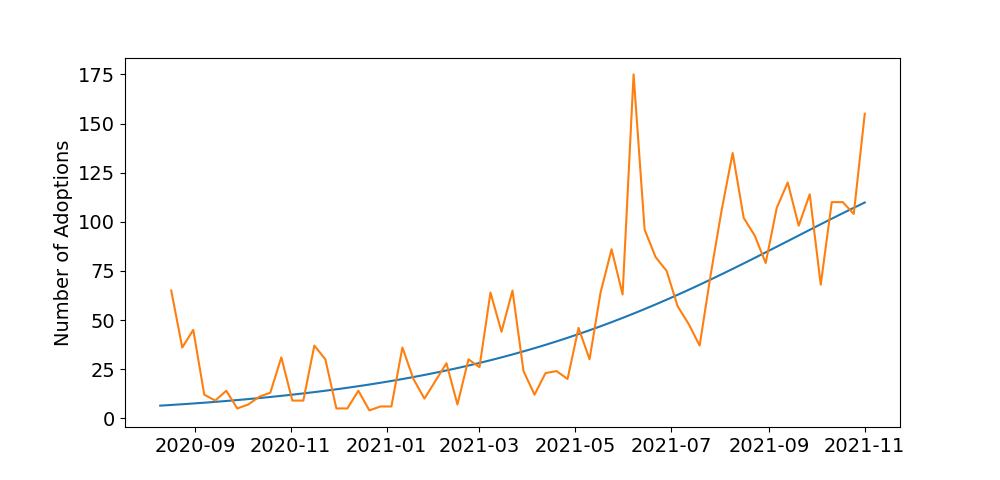
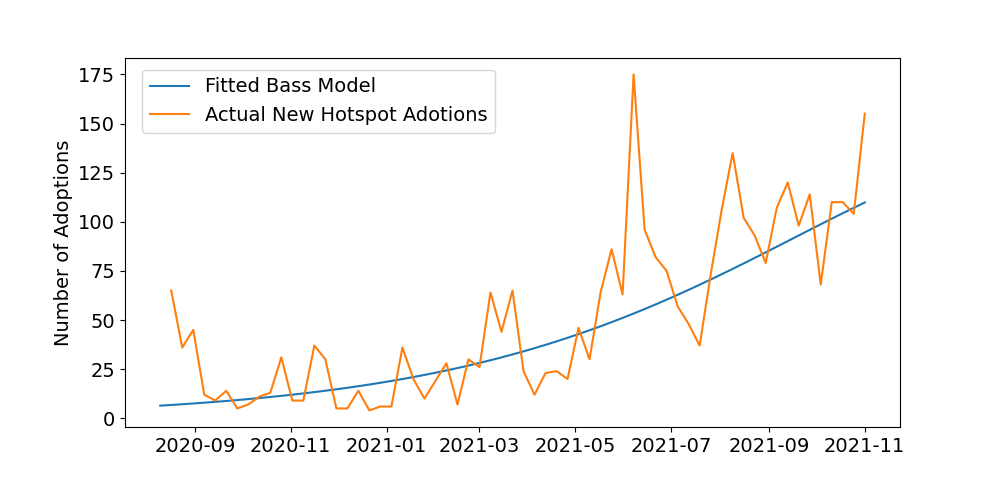
Finished the final .tex document and adjusting some plots.

Changed region(s): [[0.155, 0.1562, 0.496, 0.2812]]

diff --git a/model_and_results.tex b/model_and_results.tex
@@ -27,7 +27,7 @@
 \author{Ciupitu, Octavian; Talantceva, Marina}
 
 %------------------------------------------------
-% document starts here
+% Document Starts Here
 %------------------------------------------------
 \begin{document}
 
@@ -35,19 +35,22 @@
 \maketitle
 
 \begin{center}
-    Predicting the adoption curve of Helium Hotspotsusing the Bass Model (Bass, 1969).
+    Predicting the adoption curve of Helium Hotspotsusing the Bass Model \citep{bass1969new}.
 \end{center}
   
+%------------------------------------------------
+% CHAPTER 1
+%------------------------------------------------
 
 \section{The Bass Model}
 
 The \emph{Bass Model} was originated by Frank Bass in 1969 and is used to predict new product diffusion patterns. In his first paper
-in 1969, Bass built on the findings of Rodgers (1963) on the \emph{Diffusion of Innovations} and introduced what he called a
-\emph{new product growth model for consumer durables}. Later, this model proved to be applicable to more products than just consumer
-durables, and eventually became worldwide known as the \emph{Bass Model}. The model is used to explain the interaction between current
-and potential adopters of a new product. It states that there are two types of adopters - the innovators and the imitators. The speed
-and timing of adoption depends on their degree of innovation and the degree of imitation among adopters. Accoding to Bass, these are the
-two main kinds of forced determining the diffusion pattern.
+in 1969, Bass built on the findings of \cite{rogers2014diffusion} on the \emph{Diffusion of Innovations}, which were first pubished in 1963,
+and introduced what he called a \emph{new product growth model for consumer durables}. Later, this model proved to be applicable to more
+products than just consumer durables, and eventually became worldwide known as the \emph{Bass Model}. The model is used to explain the
+interaction between current and potential adopters of a new product. It states that there are two types of adopters - \emph{innovators} and
+\emph{imitators}. This means, the speed and timing of adoption depends on the degree of innovation and the degree of imitation among adopters.
+Accoding to Bass, these are the two main kinds of forces determining the diffusion pattern.
 
 \medskip
 
@@ -60,16 +63,26 @@ two main kinds of forced determining the diffusion pattern.
     $m$ does not determine the shape of the adoption curve. 
 \end{enumerate}
 
-\noindent The two parameters $p$, and $q$ specify how fast or slow the adoption of a new product is expected to proceed. To sum up, the adoption of a
-new product can proceed either by small scale or a large scale (specified by $m$) or at a fast or slow pace (specified by $p$ and $q$). 
-Figure 1 shows different estimated curves with various levels of innovation ($p$) and imitation ($q$). Characteristic of these diffusion curves is
-their S-shape, which illustrates that the adoption rate of a new product is particularly low at the beginning, when no contagion effects can yet exist,
-and at the end, when market saturation has been reached. 
-
 \begin{figure}[hptb]
     \centering{}\includegraphics[scale=0.45]{plots/bass_model_example.png}\\
     \caption{Based on Number Analytics (2021).}
 \end{figure}
+
+\noindent At the beginning of a product diffusion process, the \emph{coefficient of innovation} is particularly important, as it represents the set of
+people who are the first to adopt the new product regardless of the actions of others - in other words, they are \emph{innovators}. Later in the diffusion
+process, the \emph{coefficient of imitation} becomes more and more important. It stands for the set of people who adopt due to the fact that they see
+products on other people. The \emph{coefficient of imitation} represents the contagion effect in a population and describes the influence of the \emph{imitators}.
+
+\medskip
+
+\noindent The two parameters $p$, and $q$ specify how fast or slow the adoption of a new product is expected to proceed. To sum up, the adoption of a
+new product can proceed either by small scale or a large scale (specified by $m$) or at a fast or slow pace (specified by $p$ and $q$). 
+Figure 1 shows different estimated curves with various levels of innovation ($p$) and imitation ($q$). The level of $p$ determines the adoption rate at
+the beginning of the diffusion process, whereas the level of $q$ determines the adoption rate at the time where many adoptions have already taken place.
+Characteristic of these diffusion curves is their S-shape, which illustrates that the adoption rate of a new product is particularly low at the beginning,
+when no contagion effects can yet exist, and at the end, when market saturation has been reached. 
+
+\medskip
 
 \noindent We derive the estimation function from the Bass equation below:
 
@@ -114,12 +127,18 @@ In order to estimate those parameters, an estimation funciton needs to be derive
 then used to calculate the coefficient of innovation $p$, the coefficient of imitation $q$ and the market size $m$ by applying the formulas from \emph{Equation 4}.
 
 \clearpage
+
+%------------------------------------------------
+% CHAPTER 2
+%------------------------------------------------
+
 \section{Data Analysis and Results}
 
 As a first step, we collect all hostpot adoptions from the Helium blockchain for New York City, US. We consider New York as an interesting study
 environment since it is a comparatively fast adopting city. The installation date of a hotspot is stored in the blockchain by a daily frequency. However, to
 avoid many zero entries in our dataset, especially at the beginning of the hotspot diffusion process, we decided to transform our dataset to a weekly frequency.
-This allows us to observe the evolution of adoptions from week to week, as can be seen in Figure 2 (weekly adoptions) and Figure 3 (weekly cumulative adoptions).
+This allows us to observe the evolution of adoptions from week to week, as can be seen in the left chart of Figure 2 (weekly adoptions) as well as on the right
+one (weekly cumulative adoptions).
 
 \begin{figure}[!hptb]
     \begin{subfigure}[h]{0.52\linewidth}
@@ -141,15 +160,15 @@ the end of 2022, more precisely until December 26, 2022.
 \bigskip
 
 \noindent The estimates of our analysis give us a coefficient of innovation $p$ of $0.00066$, a coefficient of imitation $q$ of $0.055$, and a market size $m$ of $9754$. If we
-plot our fitted curve against actual weekly (new) hotspot adoptions as in Figure 3, we can see that the curve describes reality well.
+plot our fitted curve against actual weekly (new) hotspot adoptions as in Figure 3, we can see that the fitted curve describes reality well.
 
 \begin{figure}[!hptb]
     \centering{}\includegraphics[scale=0.6]{plots/bass_model_adoptions_vs_actual_adoptions.png}\\
-    \caption{Fitted Bass Model (blue) vs. Actual Hotspots Adoptions (orange).}
+    \caption{Fitted Bass Model (blue) vs. Actual Hotspots Adoptions from the Training Dataset (orange).}
 \end{figure}
 
 \noindent Figure 4 again shows, similar to Figure 3, our fitted curve, but this time against the weekly cumulative hotspot adoptions. Additionally, we inclueded the prediction
-of our Bass Model until the end of 2022. It can be seen that, according to our prediction, the saturation will be reached at the beginning of 2023 at around $9700$ adoptions,
+of our Bass Model until the end of 2022. It can be seen that, according to our prediction, the saturation will be reached at the beginning of 2023 at around $9,700$ adoptions,
 just as our estimated parameter $m$ suggested.
 
 \bigskip
@@ -159,7 +178,7 @@ just as our estimated parameter $m$ suggested.
 
 \begin{figure}[!hptb]
     \centering{}\includegraphics[scale=0.6]{plots/cumulative_bass_model_adoptions_vs_actual_cumulative_adoptions.png}\\
-    \caption{Bass Model Estimation until the End of 2022 (blue) vs. Acutal Adoption until November 2021 (orange).}
+    \caption{Bass Model Estimation until the End of 2022 (blue) vs. Actual Adoption until November 2021 (orange).}
 \end{figure}
 
 \noindent In a final step, we compare the Bass Model prediction with the real hotspots adoptions until December 2022. The result can be seen in Figure 5. It can be seen, that our
@@ -167,11 +186,50 @@ prediction is clearly too optimisitc and that the actual market saturation is re
 
 \begin{figure}[!hptb]
     \centering{}\includegraphics[scale=0.6]{plots/predicted_cumulative_weekly_hotspot_adoptions.png}\\
-    \caption{Bass Model Estimation until the End of 2022 (blue) vs. Acutal Adoption until the End of 2022 (orange + green).}
+    \caption{Bass Model Estimation until the End of 2022 (blue) vs. Actual Adoption until the End of 2022 (orange + green).}
 \end{figure}
 
-%%%%%%%%%%%%%%%%%% REFERENCES %%%%%%%%%%%%%%%%%%%%%%%%
+%------------------------------------------------
+% CHAPTER 3
+%------------------------------------------------
 
+\section{Discussion and Limitations}
+
+Our analysis clearly shows that our prediction is too optimistic when compared to the test data set. The market size estimated by the Bass Model is $m = 9,754$, whereas
+from the real data we can see that the hotspot adoptions tend to converge towards a market size of $6000$. However, a closer look at the model quickly reveals where
+this discrepancy comes from. The Bass model, which is now over 50 years old, is one of the first models to describe the diffusion process of a new product, and is
+therefore still very simply designed. Namely, it describes the dependent variable only on the basis of its own lags i.e. the so-called "installed base". For a more
+complex technology, like in our case a Helium hotspot, estimating future adoptions solely based on past adoptions does not seem to be sufficient for a good fit.
+The reason for this is that a potential consumer's adoption decision depends on additional important market variables. Probably the most important market variable
+is the performance of the cryptocurrency market, or to be more precise, the so-called Helium Token (\$HNT), which rewards consumers for setting up and operating a
+hotspot. If the price of \$HNT, which can be traded for traditional currencies such as dollars or euros on crypto exchanges, is high, then consumers'
+incentives to adopt also increase. 
+
+\bigskip
+
+\noindent However, if we look at the past performance of the cryptocurrency market, we see that for the period of our training data set (August 10, 2020 to November 7, 2021) all
+cryptocurrencies massively increase in value. Not only did the price of the Helium Token reach its peak at around \$52 in November 2021, but also the price of other major
+cryptocurrencies like Bitcoin or Ethereum. This means, that the estimation of our variables $p$, $q$ and $m$ is based on a timeframe when the whole market was going up. However,
+shortly after the end of our training data set the cryptocurrency market crashed in 2022, causing a lot of currencies to loose up to 80\% of their market capitalization. This in
+turn caused less people to adopt Helium hotspots since the incentives for doing so went down. This fact is also well illustrated by Figure 6. Here it can be clearly seen that the
+rate of new adoptions drops rapidly as soon as the HNT price collapses (around February 2022). The collapse of the HNT price is an essential piece of information that our model
+does not take into account.
+
+\begin{figure}[!hptb]
+    \centering{}\includegraphics[scale=0.6]{plots/hnt_comparison.png}\\
+    \caption{The Decline in Hotspot Adoptions after HNT Price Collapse.}
+\end{figure}
+
+\noindent To account for additional variables, Frank Bass years later presented an extension of his original model that captures the influence of such external variables with the
+publication of the \emph{Generalized Bass Model} \citep{bass1994bass}. For future research, we therefore propose to use the \emph{Generalized Bass Model} both to gain better
+predictions about the diffusion process and to gain accurate insights into which external variables have an impact on the adoption rate, i.e., on the slope of the adoption curve.
+
+
+%%%%%%%%%%%%%%%%%% REFERENCES %%%%%%%%%%%%%%%%%%%%%%%%
+\setcounter{secnumdepth}{0}
+\addcontentsline{toc}{section}{References}
+\bibliographystyle{chicago}
+\bibliography{Biblio.bib} 
 %%%%%%%%%%%%%%%%%%%%%%%%%%%%%%%%%%%%%%%%%%%%%%%%%%%%%%%%
  
 \end{document}

diff --git a/bass_model.py b/bass_model.py
@@ -3,6 +3,7 @@ import numpy as np
 import matplotlib.pyplot as plt
 from sklearn.linear_model import LinearRegression
 import math
+import yfinance as yf
 
 ### Read the the csv document from the previous E file ###
 adoptions_cumulative_raw = pd.read_csv("/Users/octavianciupitu/Desktop/EPP Final/adoptions_cumulative_raw.csv")
@@ -93,11 +94,12 @@ def bass_model(p,q,m,T):
 adoptions = bass_model(p,q,m,len(adoptions_train))
 
 plt.figure().set_figwidth(10)
-plt.plot(adoptions_train.Date, adoptions)
-plt.plot(adoptions_train.Date.iloc[1:], new_adoptions)
+plt.plot(adoptions_train.Date, adoptions, label = "Fitted Bass Model")
+plt.plot(adoptions_train.Date.iloc[1:], new_adoptions, label = "Actual New Hotspot Adotions")
 #plt.title("Bass Model Adoptions vs Actual Adoptions")
 #plt.xlabel("Date")
 plt.ylabel("Number of Adoptions")
+plt.legend(loc="lower left", bbox_to_anchor=(0.01,0.77))
 plt.savefig('plots/bass_model_adoptions_vs_actual_adoptions')
 plt.clf()
 
@@ -110,15 +112,16 @@ adoptions_pred_cumul = np.cumsum(adoptions_pred) + adoptions_ts[min_range]
 
 # Plot the whole bass model fit, which is only based on the adoptions_train dataset:
 plt.figure().set_figwidth(10)
-plt.plot(adoptions_cumulative.Date, adoptions_pred_cumul) 
+plt.plot(adoptions_cumulative.Date, adoptions_pred_cumul, label = "Fitted Bass Model") 
 
 # Also plot the adoption_train dataset:
-plt.plot(adoptions_train.Date, adoptions_train.HotspotsWeek)
+plt.plot(adoptions_train.Date, adoptions_train.HotspotsWeek, label = "Actual Cumulative Hotspot Adotions")
 
 #plt.title("Cumulative Bass Model Adoptions vs Actual Cumulative Adoptions")
 #plt.xlabel("Date")
 plt.ylabel("Number of Adoptions")
 plt.xticks(["2020-10", "2021-04", "2021-10", "2022-04", "2022-10"])
+plt.legend(loc="lower left", bbox_to_anchor=(0.01,0.77))
 plt.savefig('plots/cumulative_bass_model_adoptions_vs_actual_cumulative_adoptions')
 
 plt.clf()
@@ -126,14 +129,58 @@ plt.clf()
 # Finally, plot the the adoptions_test dataset, which the model has never seen before and compare
 # it to the prediction
 plt.figure().set_figwidth(10)
-plt.plot(adoptions_cumulative.Date, adoptions_pred_cumul) 
-plt.plot(adoptions_train.Date, adoptions_train.HotspotsWeek)
-plt.plot(adoptions_test.Date, adoptions_test.HotspotsWeek)
+plt.plot(adoptions_cumulative.Date, adoptions_pred_cumul, label = "Fitted Bass Model") 
+plt.plot(adoptions_train.Date, adoptions_train.HotspotsWeek, label = "Actual Cumulative Hotspot Adotions (Train)")
+plt.plot(adoptions_test.Date, adoptions_test.HotspotsWeek, label = "Actual Cumulative Hotspot Adotions (Test)")
 
 #plt.title("Predicted Cumulative Weekly Hotspot Adoptions")
 #plt.xlabel("Date")
 plt.ylabel("Number of Adoptions")
 plt.xticks(["2020-10", "2021-04", "2021-10", "2022-04", "2022-10"])
+plt.legend(loc="lower left", bbox_to_anchor=(0.01,0.7))
 plt.savefig('plots/predicted_cumulative_weekly_hotspot_adoptions')
 
+plt.clf()
+
+# Create the final plot that is comparing the Diffusion Graph (Adoption Graph) to the historical
+# price data of HNT (data from yahoo finance)
+
+HNT_ticker = yf.Ticker("HNT-USD")
+HNT_data = HNT_ticker.history(period="3y", interval = '1wk')
+
+HNT_data['Date'] = HNT_data.index
+
+HNT_data_filtered = HNT_data[(HNT_data['Date'] > '2020-08-09') & (HNT_data['Date'] < '2022-12-27')]
+
+x = HNT_data_filtered.Date
+y1 = adoptions_pred_cumul
+y2 = adoptions_cumulative.HotspotsWeek
+y3 = HNT_data_filtered.Close
+
+fig, ax1 = plt.subplots()
+
+ax1.plot(x, y1, 'darkblue', label = "Predicted Adoptions")
+
+ax2 = ax1.twiny()
+ax2.plot(x, y2, 'royalblue', label = "Actual Adoptions")
+
+ax3 = ax1.twinx()
+ax3.plot(x, y3, 'green', label = "HNT Price")
+
+ax1.set_ylabel("Adoptions", color = "blue")
+ax3.set_ylabel("Price", color = "green")
+
+ax1.tick_params(axis='y', colors = "blue")
+ax3.tick_params(axis='y', colors = "green")
+
+ax3.spines['right'].set_color('green')
+ax3.spines['left'].set_color('blue')
+
+ax1.set_xticks(["2020-10", "2021-04", "2021-10", "2022-04", "2022-10"])
+ax2.set_xticks(["2020-10", "2021-04", "2021-10", "2022-04", "2022-10"])
+
+fig.set_figwidth(10)
+fig.legend(loc="lower left", bbox_to_anchor=(0.13,0.65))
+
+plt.savefig('plots/hnt_comparison')
 plt.clf()
